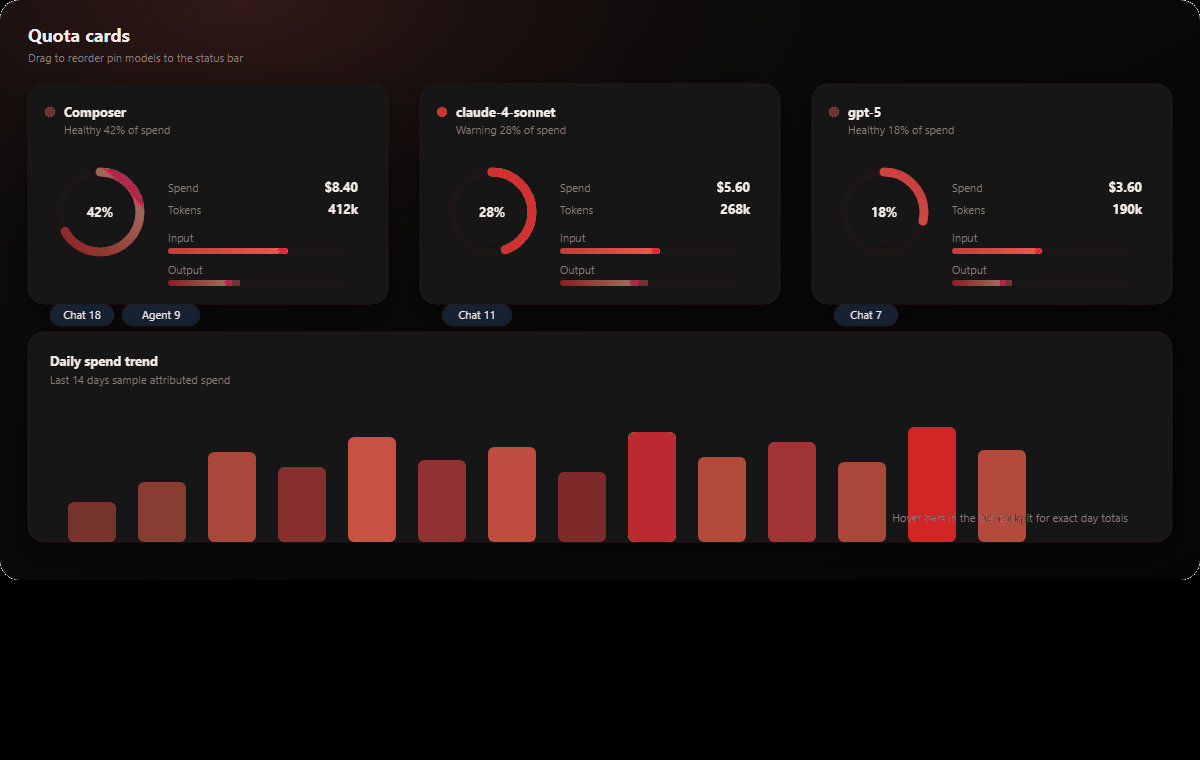
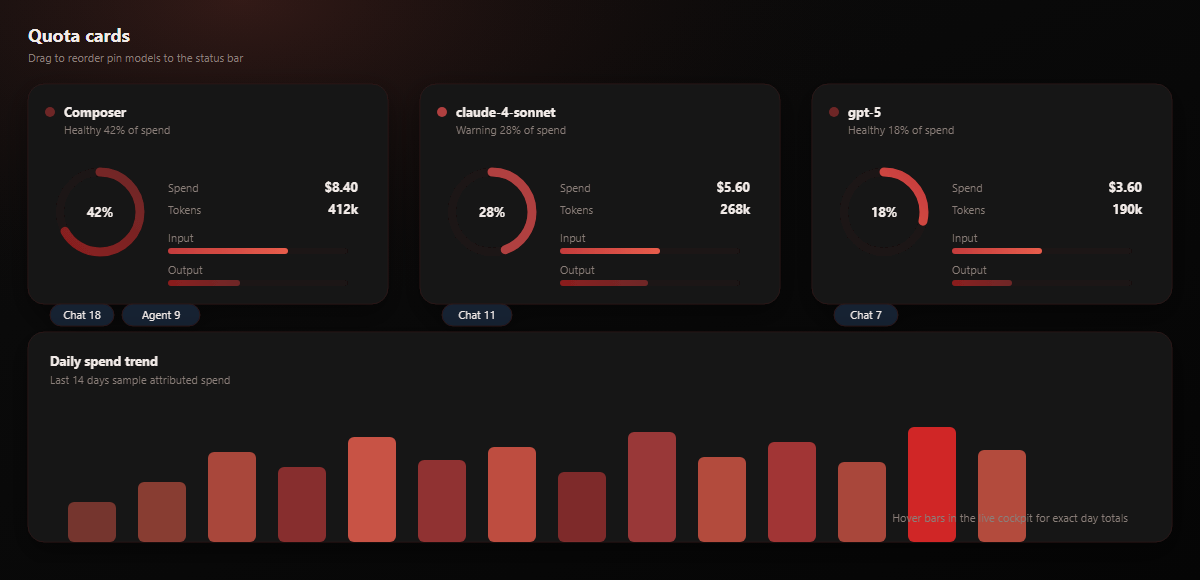
fix: black marketplace screenshots + burn runway image (v1.11.1)
Re-render description PNGs at exact SVG size with no white letterboxing; crimson heatmap cells; add Burn runway README shot.

diff --git a/README.md b/README.md
@@ -72,6 +72,15 @@ Works in **Cursor** (VS Code–compatible). It reads your existing local Cursor 
 - **Burn runway**: days until the binding pool hits 100%, pace vs straight-line burn for the cycle, optional soft weekly $ budget (Settings)
 - **Burn-rate forecast cards**: projected included-pool % by cycle end and countdown to 100% per pool
 
+### Burn runway
+
+![Burn runway panel with runway days, pace multiplier, and dual-pool projections](media/screenshots/burn-runway.png)
+
+- Binding-pool runway in days (which pool runs out first)
+- Pace vs straight-line burn for the current cycle
+- Optional weekly $ budget progress (Settings → `weeklyBudgetCents`)
+- Per-pool projected % by cycle end and time-to-100%
+
 ### A GitHub-style heatmap, built for AI usage
 
 ![90-day model-aware usage heatmap](media/screenshots/usage-heatmap.png)

diff --git a/CHANGELOG.md b/CHANGELOG.md
@@ -1,3 +1,10 @@
+## [1.11.1] - 2026-09-25
+
+### Changed
+- Marketplace screenshots re-rendered at exact SVG size on solid black (no white letterboxing)
+- Heatmap screenshot uses the live crimson intensity ladder (removed leftover green cells)
+- Added **Burn runway** screenshot to README / Open VSX description
+
 ## [1.11.0] - 2026-09-25
 
 ### Added
